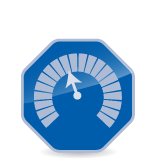
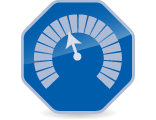
update assets & styles

diff --git a/css/styles.css b/css/styles.css
@@ -25,10 +25,7 @@ h1, #performance-main, #performance-nav, .content-header, #nav-header-title {
     font-family: 'Righteous', cursive;
 }
 /* accents */
-/* [data-theme="assets"]#tpm-content-section {
-    background-color: #2baab1;
-} */
-[data-theme='assets'] strong, [data-theme='assets'] .theme-font-color {
+[data-theme='assets'] strong, [data-theme='assets'] .theme-font-color, [data-theme="assets"] figcaption {
     color: #1c6f73;
 }
 [data-theme='assets'] .content-header, [data-theme='assets'] .active-header {
@@ -37,10 +34,7 @@ h1, #performance-main, #performance-nav, .content-header, #nav-header-title {
 [data-theme='assets'] tbody tr {
     border-bottom: 2px dotted #1c6f73;
 }
-/* [data-theme="safety"]#tpm-content-section {
-    background-color: #ffc886;
-} */
-[data-theme="safety"] strong, [data-theme="safety"] .theme-font-color {
+[data-theme="safety"] strong, [data-theme="safety"] .theme-font-color, [data-theme="safety"] figcaption {
     color: #ffa639;
 }
 [data-theme='safety'] .content-header,  [data-theme='safety'] .active-header {
@@ -49,10 +43,7 @@ h1, #performance-main, #performance-nav, .content-header, #nav-header-title {
 [data-theme='safety'] tbody tr {
     border-bottom: 2px dotted #ffa639;
 }
-/* [data-theme="performance"]#tpm-content-section {
-    background-color: #0087f8;
-} */
-[data-theme="performance"] strong, [data-theme="performance"] .theme-font-color {
+[data-theme="performance"] strong, [data-theme="performance"] .theme-font-color, [data-theme="performance"] figcaption {
     color: #005dab;
 }
 [data-theme='performance'] .content-header, [data-theme='performance'] .active-header {
@@ -80,7 +71,7 @@ h1, #performance-main, #performance-nav, .content-header, #nav-header-title {
      /* light monochrome bg shade */ 
     border-bottom: 2px solid #4d534d;
     
-    background: #282B28;
+    background: #030303;
     font-size: 0.85rem;
 }
 #nav-header-nav {
@@ -103,7 +94,6 @@ h1, #performance-main, #performance-nav, .content-header, #nav-header-title {
     justify-content: center;
     align-items: start;
     padding: 6% 15px;
-    margin-bottom: 2%;
     background: #282B28;
     color: #FFEFD3;
 }
@@ -134,9 +124,8 @@ h1 {
 #indicator-icons-wrapper {
     display: flex;
     justify-content: space-around;
-    background: white;
-    padding: 1% 15px;
-    padding-bottom: 3%;
+    background: #030303;
+    padding: 2% 15px 3% 15px;
     z-index: 2;
 }
 .indicator-icons-figure {
@@ -150,11 +139,11 @@ h1 {
     font-weight: 700;
 }
 .indicator-icons-active img {
-    filter: drop-shadow(1px 2px 3px rgba(0,0,0,0.3)) brightness(115%);
+    filter: drop-shadow(1px 2px 3px rgba(0,0,0,0.3)) brightness(125%);
 }
 .indicator-icons-figcaption:hover + .indicator-icons-imgs, .indicator-icons-imgs:hover {
-    transform: rotate(10deg);
-    filter: drop-shadow(1px 2px 3px rgba(0,0,0,0.3)) brightness(115%);
+    transform: rotate(5deg);
+    filter: drop-shadow(1px 2px 3px rgba(0,0,0,0.3)) brightness(125%);
 }
 .indicator-icons-imgs {
     /* width: 115px; */
@@ -179,8 +168,7 @@ h1 {
     display: flex;
     justify-content: center;
     align-items: baseline;
-    /* background: #e9e9e9; */
-    background: #414541;
+    background: #282B28;
     padding-bottom: 3%;
 }
 #tpm-content {
@@ -189,7 +177,7 @@ h1 {
     border-radius: 6px;
     padding: 0 2rem 0.5rem 2rem;
     margin-top: 15px;
-    background: #fff;
+    background: #f7f7f7;
     font-size: 1rem;
     border-left: 2px inset #e4e4e4;
     border-right: 2px inset #e4e4e4;
@@ -335,7 +323,7 @@ td:not(.table-cell-first) {
 footer {
     height: 250px;
     padding: 4% 15.5%;
-    background: #282B28;
+    background: #030303;
     color: #f7f7f7;
     display: flex;
     align-items: center;

diff --git a/index.html b/index.html
@@ -70,11 +70,11 @@
                 </figure>
                 <figure class="indicator-icons-figure" data-indicator="transitasset" data-theme="assets">
                     <figcaption class="indicator-icons-figcaption">TRANSIT ASSET MANAGEMENT</figcaption>
-                    <img src="./img/transit-safety.png" class="indicator-icons-imgs" alt="transit safety icon" />
+                    <img src="./img/transit-assets.png" class="indicator-icons-imgs" alt="transit assets icon" />
                 </figure>
                 <figure class="indicator-icons-figure" data-indicator="ptasp" data-theme="safety">
                     <figcaption class="indicator-icons-figcaption">TRANSIT SAFETY</figcaption>
-                    <img src="./img/transit-assets.png" class="indicator-icons-imgs" alt="transit assets icon" />
+                    <img src="./img/transit-safety.png" class="indicator-icons-imgs" alt="transit safety icon" />
                 </figure>
             </div>
             

diff --git a/js/handleIndicators.js b/js/handleIndicators.js
@@ -68,7 +68,7 @@ const clickIndicator = e => {
 
     // scroll to
     if(!beenScrolled) {
-        scrollTo = parent.getBoundingClientRect().top + 5
+        scrollTo = parent.getBoundingClientRect().top - 7
         beenScrolled = true
     }
 
